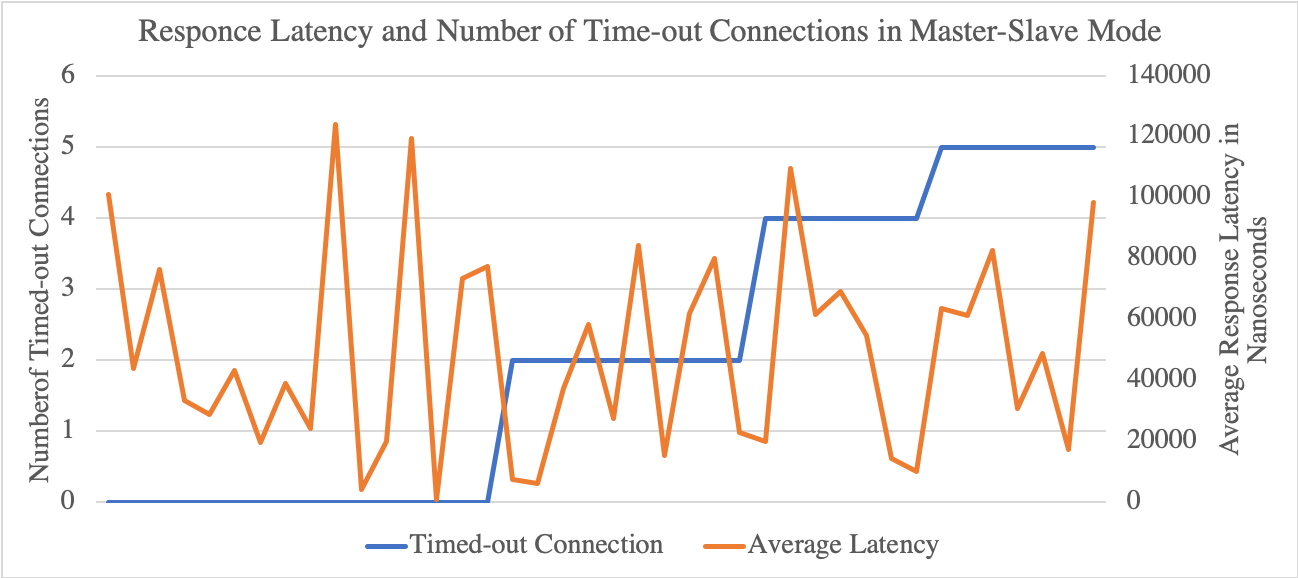
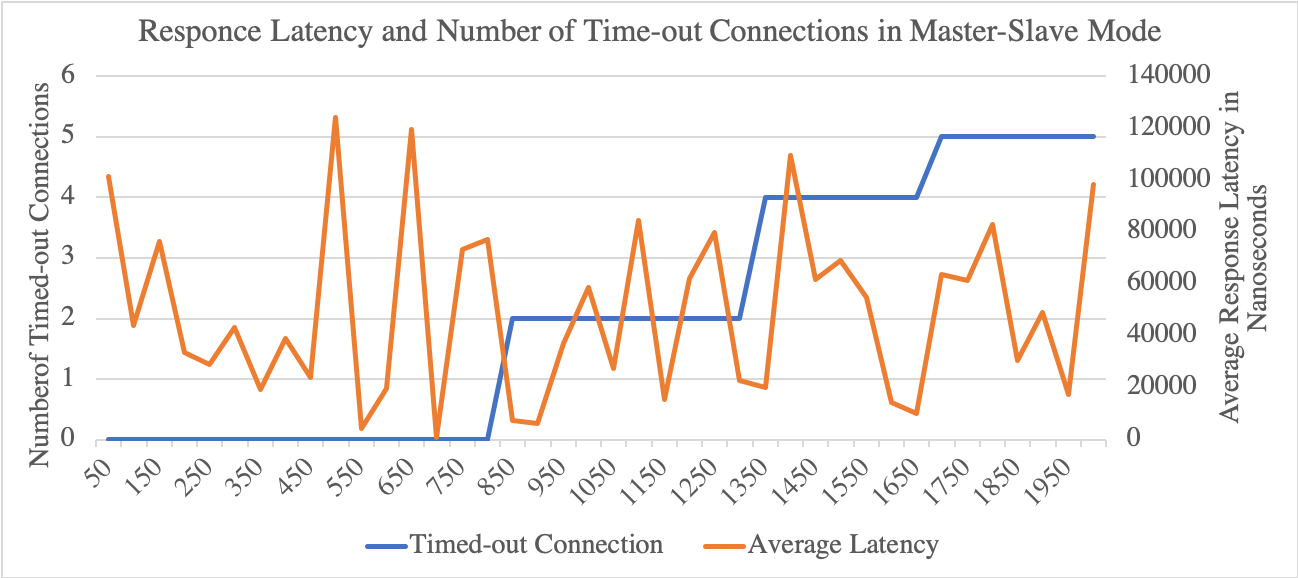
update performance graphs with x-axis

Changed region(s): [[0.0, 0.1557, 0.9861, 0.872], [0.8629, 0.8408, 0.8937, 0.872], [0.0308, 0.8408, 0.0616, 0.872]]

diff --git a/section/replication/raft/raft-performance.tex b/section/replication/raft/raft-performance.tex
@@ -1,31 +1,3 @@
-\begin{figure}[H]
-	\centering
-	\begin{tikzpicture}[shorten >=1pt,node distance=2cm,on grid,auto]
-		\node[state] (0) {peer-0};
-		\node[state] (1) [right=of 0]{peer-1};
-		\node[state] (2) [below=of 0]{peer-2};
-		\node[state] (3) [right=of 2]{peer-3};
-		\path[->]
-			(0) edge node {} (1)
-			(0) edge node {} (2)
-			(0) edge node {} (3)
-			
-			(1) edge node {} (0)
-			(1) edge node {} (2)
-			(1) edge node {} (3)
-			
-			
-			(2) edge node {} (0)
-			(2) edge node {} (1)
-			(2) edge node {} (3)
-			
-			
-			(3) edge node {} (0)
-			(3) edge node {} (1)
-			(3) edge node {} (2);
-	\end{tikzpicture}
-	\caption{Raft Cluster Topology}
-\end{figure}
 In order to test the performance, the researchers organized a 4-node cluster for testing as figure 7. In additional to performance benchmarking, the researchers first applied a fault tolerance testing to validate leader-election by taking down a node in the cluster to see if the Pub/Sub system could still function. In most of the cases, leader nodes are taken down in order to observe how the cluster would re-elect a leader. All experiments suggests the leader re-elections were successful although some may cause significant latency during the process. Once the fault tolerance is confirmed to be successful, the researchers proceeded with performance benchmark.
 
 	
@@ -43,4 +15,4 @@ In order to test the performance, the researchers organized a 4-node cluster for
 
 Same in master-slave mode, the clients were evenly distributed onto each node in the cluster. However while testing, the researchers found that the system would be frequently stalled due to Raft-related heartbeat and synchronization operations, if the size of test increment were small. This effect can be cancelled out by extending heartbeat interval, but doing so would make the system behaving more like master-slave mode. Overall, the researchers decided to resolve the issue by increasing the test sample size in aim to reduce the total number of test iterations and internal leader elections. 
 
-As the graph has shown, capacity-wise Raft-mode is still capable of hosting large number of clients. However, the average latency is over 50\% slower than that of a single machine, and timeout rate had also hiked.
+As the graphs have shown, capacity-wise Raft-mode is still capable of hosting large number of clients. However, the average latency is over 50\% slower than that of a single machine, and timeout rate had also hiked.

diff --git a/section/replication/raft/raft-implementation-basics.tex b/section/replication/raft/raft-implementation-basics.tex
@@ -2,15 +2,29 @@ On initiation, all the nodes start with the role of Candidate, and then start th
 
 \begin{figure}[H]
 	\centering
-	\begin{tikzpicture}[shorten >=1pt,node distance=2cm,on grid,auto,state/.style={circle, draw, minimum size=2cm}]
-		\node[state] (0) {leader};
-		\node[state] (1) [node distance=3cm,right=of 0]{follower-1};
-		\node[state] (2) [node distance=3cm,below=of 0]{follower-2};
-		\node[state] (3) [node distance=3cm,right=of 2]{follower-3};
+	\begin{tikzpicture}[shorten >=1pt,node distance=2cm,on grid,auto]
+		\node[state] (0) {peer-0};
+		\node[state] (1) [right=of 0]{peer-1};
+		\node[state] (2) [below=of 0]{peer-2};
+		\node[state] (3) [right=of 2]{peer-3};
 		\path[->]
 			(0) edge node {} (1)
 			(0) edge node {} (2)
-			(0) edge node {} (3);
+			(0) edge node {} (3)
+			
+			(1) edge node {} (0)
+			(1) edge node {} (2)
+			(1) edge node {} (3)
+			
+			
+			(2) edge node {} (0)
+			(2) edge node {} (1)
+			(2) edge node {} (3)
+			
+			
+			(3) edge node {} (0)
+			(3) edge node {} (1)
+			(3) edge node {} (2);
 	\end{tikzpicture}
 	\caption{Raft Cluster Topology}
 \end{figure}
